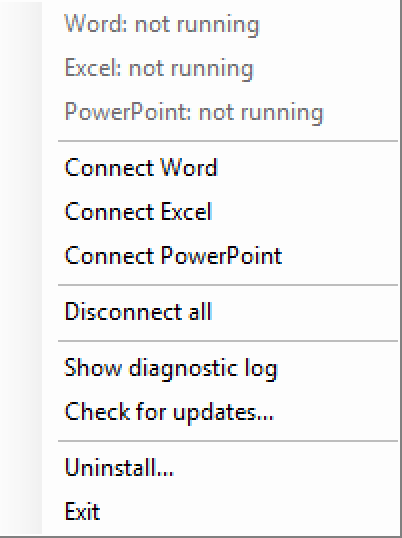
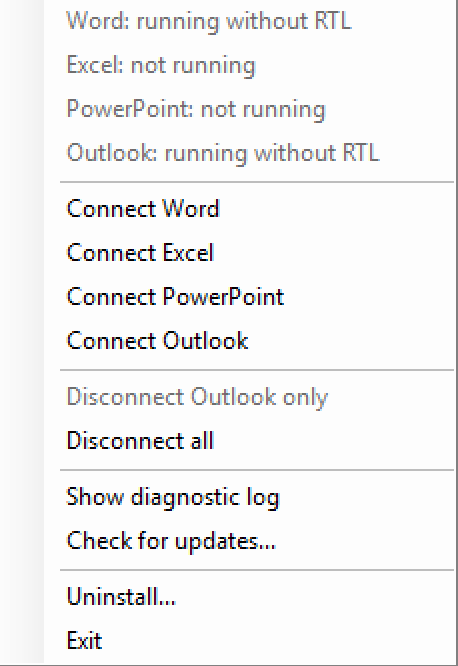
docs: refresh tray-menu.png to v0.3.0 + fix stale status-label count
The previous tray-menu.png was last refreshed for v0.2.0 (commit
ac1079e, 2026-05-03) and showed only three status labels (Word /
Excel / PowerPoint). v0.3.0 added Outlook as a fourth status label
plus a Connect Outlook item and a Disconnect Outlook only item, so
the old image misled anyone reading the README on main.

Replaces docs/images/tray-menu.png with a fresh capture taken on a
v0.3.0 install showing the current menu structure: four status
labels at the top, four Connect items, Disconnect Outlook only +
Disconnect all, then Show diagnostic log / Check for updates... /
Uninstall... / Exit. Source dimensions 458x666 (renders at width=360
in the README without upscaling).

Also fixes README.md line 393 which still said "שלוש שורות סטטוס"
in the %TEMP% rationale row, contradicting both the new screenshot
and the main menu-items table at line 111 which already correctly
says "ארבע שורות". Now consistent throughout.

Pre-commit verification by two parallel review sub-agents:
- screenshot deps clean, dimensions sane, alt text accurate
- one stale-prose hit (line 393, fixed in this commit)
- audit of CLAUDE.md and docs/security.md flagged additional 3-app
  prose that contradicts v0.3.0 reality; deferred to follow-up since
  those are dev/threat-model docs, not the user-facing README.

Changed region(s): [[0.0, 0.0, 1.0, 1.0]]

diff --git a/README.md b/README.md
@@ -390,7 +390,7 @@ Anthropic כמו תמיד - ה-wrapper פשוט מוסיף flag ל-WebView2 ומ
     <tr>
       <td><code>%TEMP%</code></td>
       <td>כתיבה של PID, סטטוס מצרפי (<code>claude-word-rtl.status</code>) וסטטוס לפי אפליקציה (<code>claude-office-rtl.apps.json</code>) של ה-injector</td>
-      <td>למעקב אחר מצב ההזרקה מה-tray, להציג שלוש שורות סטטוס בתפריט, ולמנוע mass-kill של תהליכי Node</td>
+      <td>למעקב אחר מצב ההזרקה מה-tray, להציג ארבע שורות סטטוס בתפריט, ולמנוע mass-kill של תהליכי Node</td>
     </tr>
     <tr>
       <td>Startup folder של המשתמש</td>
